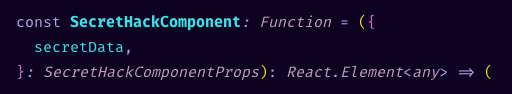
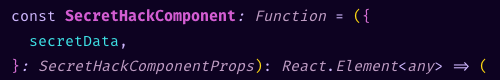
Replaced images with the new syntax style images. Added null, undefined & NaN image. Added known issues section.

Changed region(s): [[0.03, 0.675, 0.99, 0.925], [0.0, 0.1, 0.75, 0.325], [0.06, 0.45, 0.27, 0.6]]

diff --git a/README.md b/README.md
@@ -33,6 +33,9 @@ This theme is still work in progress, and right now works only with **.js, .jsx 
 - Booleans use pink color  
   <img src="https://github.com/foxhoundn/synthax-code-theme/raw/master/themes/img/examples/boolean.png" alt="Syntax Theme | Boolean Example" />
 
+- Null, undefined & NaN use purple color  
+  <img src="https://github.com/foxhoundn/synthax-code-theme/raw/master/themes/img/examples/null.png" alt="Syntax Theme | Boolean Example" />
+
 - Objects & object properties use variables color for the object identifier & white/respectice colors for object properties  
   <img src="https://github.com/foxhoundn/synthax-code-theme/raw/master/themes/img/examples/objects.png" alt="Syntax Theme | Objects Example" />
 
@@ -44,6 +47,14 @@ This theme is still work in progress, and right now works only with **.js, .jsx 
 
 - Tags are separated into 2 categories - native tags have variable color, React components have class color  
   <img src="https://github.com/foxhoundn/synthax-code-theme/raw/master/themes/img/examples/tags.png" alt="Syntax Theme | Tags Example" />
+
+## Known issues
+
+- If there is a new line present in the function declaration parenthesis, the parameters annotations have variable color and any modifiers have function colors.  
+  <img src="https://github.com/foxhoundn/synthax-code-theme/raw/master/themes/img/examples/parameters-correct.png" alt="Syntax Theme | Function params correct Example" />
+  <img src="https://github.com/foxhoundn/synthax-code-theme/raw/master/themes/img/examples/parameters-wrong.png" alt="Syntax Theme | Function params error Example" />
+
+  Issue was raised here - https://github.com/Microsoft/vscode/issues/66149
 
 ## Contributions are welcome
 
